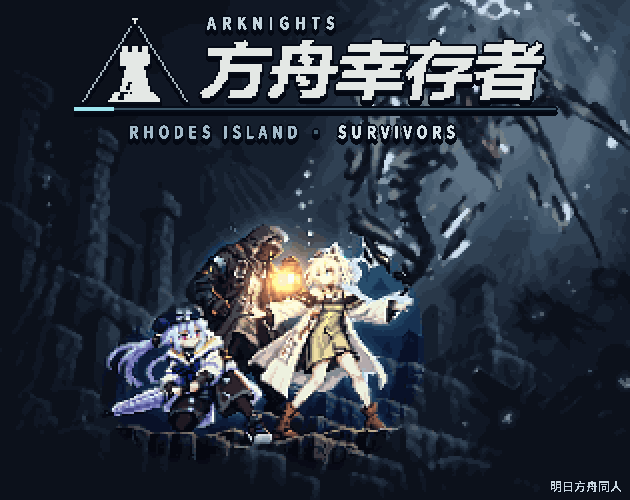
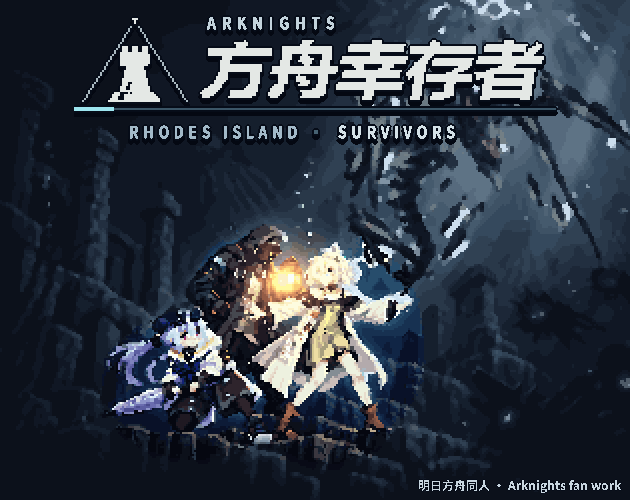
封面 C2L：去麻点（孤立像素 7%→1–2%，人物亮点 / 灯芯保护）；标注改双语「明日方舟同人 · Arknights fan work」（用户 11-07）

diff --git a/art/promo/itch/cover_g/build_cover_g_c2l.py b/art/promo/itch/cover_g/build_cover_g_c2l.py
@@ -18,7 +18,7 @@ import build_cover_g_a2 as A2  # noqa: E402
 import build_cover_g_color as CO  # noqa: E402
 
 OUT_DIR = HERE
-NOTICE = "明日方舟同人"   # 11-07 用户：「非官方去掉」
+NOTICE = "明日方舟同人 · Arknights fan work"   # 11-07 用户：「非官方去掉」「明日方舟同人也要用双语」；英文沿用 promo_keyart 的 fan work
 SCHEME = dict(CO.SCHEMES["C2"])
 SCHEME.update({"name": "C2L 整体压冷，暖点只留灯",
                "keep": {"mizuki": 0.3, "doctor": 0.25, "kaltsit": 0.3}, "hue_keep": 0.12})
@@ -105,6 +105,31 @@ def grade(a, figs, lamp):
 BAYER = (np.array([[0, 8, 2, 10], [12, 4, 14, 6], [3, 11, 1, 9], [15, 7, 13, 5]], np.float32) + 0.5) / 16 - 0.5
 
 
+def despeckle(q, protect, rounds=3, thr=24):
+    """去麻点（11-07 用户嫌脏，实测孤立像素 7%，游戏内像素画 0.2%）：
+    与上下左右都明显不同的单个像素，改成 3×3 邻域里最多的颜色；protect 处（人物亮点 / 眼睛 / 灯）不动"""
+    a = q.astype(np.int32)
+    H, W = a.shape[:2]
+    key = (a[..., 0] << 16) | (a[..., 1] << 8) | a[..., 2]
+    for _ in range(rounds):
+        p = np.pad(a, ((1, 1), (1, 1), (0, 0)), mode="edge")
+        kp = np.pad(key, 1, mode="edge")
+        c = p[1:-1, 1:-1]
+        nb = [p[:-2, 1:-1], p[2:, 1:-1], p[1:-1, :-2], p[1:-1, 2:]]
+        iso = np.logical_and.reduce([np.abs(c - b).sum(-1) > thr for b in nb]) & ~protect
+        if not iso.any():
+            break
+        ys, xs = np.nonzero(iso)
+        for y, x in zip(ys, xs):
+            win = kp[y:y + 3, x:x + 3].ravel()
+            win = np.delete(win, 4)
+            v, n = np.unique(win, return_counts=True)
+            k = v[np.argmax(n)]
+            key[y, x] = k
+            a[y, x] = ((k >> 16) & 255, (k >> 8) & 255, k & 255)
+    return a.astype(np.uint8)
+
+
 def pixelize2(img, figm, cell):
     """11-07 修色彩断层：背景加 4×4 有序抖动再收 96 色；人物（figm）不抖动、单独收 96 色、先轻锐化保细节"""
     W, H = img.size
@@ -120,6 +145,12 @@ def pixelize2(img, figm, cell):
     fq = q(fa, 96)
     out = bgq.copy()
     out[fm] = fq[fm]
+    # 保护：人物区里的亮点 / 高饱和点（眼睛、高光）、全图最亮的灯芯
+    lum = (out.astype(np.float32) * [0.299, 0.587, 0.114]).sum(-1)
+    mxc, mnc = out.max(-1).astype(np.float32), out.min(-1).astype(np.float32)
+    satc = (mxc - mnc) / (mxc + 1)
+    protect = (fm & ((lum > 200) | (satc > 0.45))) | (lum > 235)
+    out = despeckle(out, protect)
     return Image.fromarray(out).resize((W, H), Image.NEAREST)
 
 

diff --git a/art/promo/itch/cover_g/handoff.md b/art/promo/itch/cover_g/handoff.md
@@ -67,5 +67,7 @@
 - 人物：不走压缩色阶，按原亮度做冷灰（只降饱和）再混回原色，明暗层次保留；像素化前轻锐化，单独收 96 色、不抖动。
 - 背景：3×3 中值去噪后收 160 色、不抖动（11-07 用户嫌抖动版脏），去掉灯光晕 / 渐变的色带；人物外圈轮廓光 0.35→0.15。
 - 三张成品：`cover_G_A2C2L_itch_cover_630x500.png`、`cover_G_A2C2L_itch_banner_960x400.png`、`cover_G_A2C2L_toy_poster_1200x900.png`（Toy 直接 1200×900 做，像素格 2，logo / 标注 ×2）。
-- 右下角加「明日方舟同人」（11-07 用户：「非官方去掉」）。横幅生图是封面生图外扩：模板匹配测得 = 封面生图 × 0.75 + (684, 0)，人物椭圆按此换算。
+- 右下角加「明日方舟同人 · Arknights fan work」（11-07 用户：「非官方去掉」「也要用双语」；英文沿用 promo_keyart）。横幅生图是封面生图外扩：模板匹配测得 = 封面生图 × 0.75 + (684, 0)，人物椭圆按此换算。
 - 生图原图在 build/imagegen/itchg_A、itchg_Aw（不进 git，从 sharp-kare 工作树拷来）。
+- 去麻点（11-07 用户嫌脏）：脏的主因是像素化把生图碎纹理缩成零散单像素——孤立像素（与上下左右都不同）实测 A′ 9.4%、C2 8.1%，游戏内标题页像素画 0.2%。
+  收色后把孤立像素改成 3×3 邻域最多的颜色（3 轮），人物亮点 / 高饱和点（眼睛、高光）与灯芯保护不动；itch 封面降到 2.1%、横幅 1.3%、Toy 0.75%。
